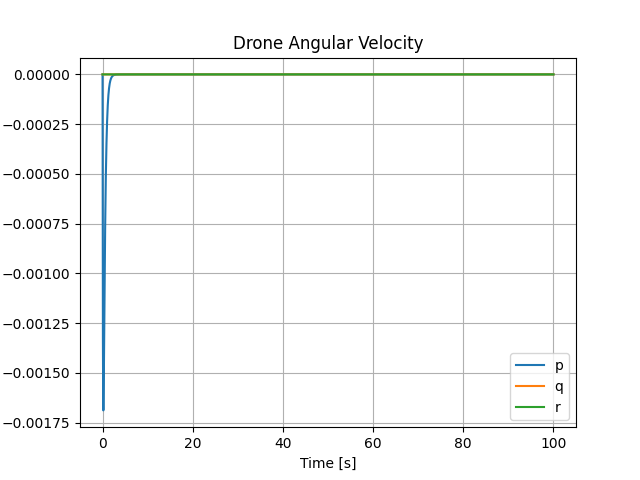
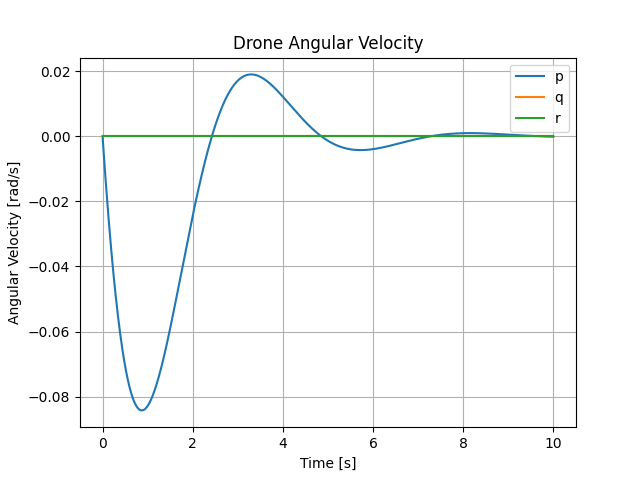
began experimentation with combination of thrust and p/r control

diff --git a/src/simple-pid.py b/src/simple-pid.py
@@ -22,29 +22,41 @@ c2m = np.array([[-r, -r, r, r], [r, -r, -r, r], [1, -1, 1, -1]])
 
 ## Simulation Parameters
 
-#s = control.TransferFunction.s
+simSpeed = 10
 
-Kp = 5 # Proportional Gain
-Ti = 100 # Integral Time Constant
-Td = 10 # Derivative Time Constant
+# Pitch/Roll PID Constants
+
+Kp_pr = 4500 # Proportional Gain
+Ki_pr = 100 # Integral Gain
+Kd_pr = 300 # Derivative Gain
 
 desired_roll = 0 # Desired Roll Angle
 desired_pitch = 0 # Desired Pitch Angle
 
-roll_pid = PID(Kp, Kp/Ti, Kp/Td, setpoint=desired_roll)
-pitch_pid = PID(Kp, Kp/Ti, Kp/Td, setpoint=desired_pitch)
+roll_pid = PID(Kp_pr, Ki_pr, Kd_pr, setpoint=desired_roll)
+pitch_pid = PID(Kp_pr, Ki_pr, Kd_pr, setpoint=desired_pitch)
 
-#G = Kp * (1 + (1/(Ti*s)) + Td*s) # PID Transfer Function
+# Thrust PID Constants
+
+Kp_t = .2 # Proportional Gain
+Ki_t = 1 # Integral Gain
+Kd_t = 0.01 # Derivative Gain
+
+desired_z_position = 0 # Desired Z Position
+
+thrust_pid = PID(Kp_t, Ki_t, Kd_t, setpoint=desired_z_position)
 
 # Generate the time vector
 
 Tdelt = 0.01 # Sampling Time
-roll_pid.sample_time = Tdelt
-pitch_pid.sample_time = Tdelt
+roll_pid.sample_time = Tdelt/simSpeed
+pitch_pid.sample_time = Tdelt/simSpeed
 Tstart = 0 # Start Time
 Tstop = 10 # End Time
 N = int((Tstop - Tstart)/Tdelt) # Number of Samples
 t = np.linspace(Tstart, Tstop, N) # Time Vector
+
+print("Simulation will take: ", N*Tdelt/simSpeed, " seconds")
 
 # Initialize vectors/matrices
 state = np.zeros([12, N+1]) # State Vector
@@ -84,108 +96,39 @@ R = 11
 
 index = 1
 for i in t:
+  # Update PID controllers
   del_phi = roll_pid(state[PHI][index-1])
   del_theta = pitch_pid(state[THETA][index-1])
+  del_thrust = thrust_pid(state[Z][index-1])
 
-  del_phi_lin = roll_pid(stateLin[PHI][index-1])
-  del_theta_lin = pitch_pid(stateLin[THETA][index-1])
-
-  #print("Roll: ", stateLin[PHI][index-1], "Pitch: ", stateLin[THETA][index-1], "del_phi: ", del_phi, "del_theta: ", del_theta)
-
+  # Calculate Control Moments
   del_Lc = Ixx * del_phi * Tdelt
   del_Mc = Iyy * del_theta * Tdelt
+  del_Nc = 0
 
-  del_Lc_lin = Ixx * del_phi_lin * Tdelt
-  del_Mc_lin = Iyy * del_theta_lin * Tdelt
+  # Calculate Control Force(s)
+
+  Zc = del_thrust * (m_drone/Tdelt)
+  m_force = Zc/4
+
+  # Find control force from PID
 
   momentsc = np.array([del_Lc, del_Mc, 0])
-  momentscLin = np.array([del_Lc_lin, del_Mc_lin, 0])
-  motorscI = np.dot(c2m.T, momentsc) # motor thrust
-  motorscILin = np.dot(c2m.T, momentscLin) # motor thrust
+  motorscI_rp = np.dot(c2m.T, momentsc) # motor thrust for roll and pitch
+
+  motorscI_t = np.array([m_force, m_force, m_force, m_force]) # motor thrust for thrust
+
+  motorscI = motorscI_rp + motorscI_t
 
   motorsc[:,index] = motorscI
-  motorscLin[:,index] = motorscILin
 
   # Update drone state
   state[:,index] = DroneState(state[:,index-1], motorscI).update(Tdelt)
-  stateLin[:,index] = DroneStateLinear(stateLin[:,index-1], motorscI).update(Tdelt)
 
   index += 1
-  time.sleep(Tdelt)
+  time.sleep(Tdelt/simSpeed)
 
-
-## Plotting
-
-# plot phi, theta, psi
-
-plt.figure()
-plt.plot(t, stateLin[PHI][:-1], label='Roll')
-plt.plot(t, stateLin[THETA][:-1], label='Pitch')
-plt.plot(t, stateLin[PSI][:-1], label='Yaw')
-plt.title('Drone Attitude -linear')
-plt.xlabel('Time [s]')
-plt.ylabel('Angle [rad]')
-plt.legend()
-plt.grid()
-plt.savefig("plots/simple-pid-attitude-linear.png")
-plt.close()
-
-# plot x,y,z
-
-plt.figure()
-plt.plot(t, stateLin[X][:-1], label='X')
-plt.plot(t, stateLin[Y][:-1], label='Y')
-plt.plot(t, stateLin[Z][:-1], label='Z')
-plt.title('Drone Position -linear')
-plt.xlabel('Time [s]')
-plt.ylabel('Position [m]')
-plt.legend()
-plt.grid()
-plt.savefig("plots/simple-pid-position-linear.png")
-plt.close()
-
-# plot u,v,w
-
-plt.figure()
-plt.plot(t, stateLin[U][:-1], label='u')
-plt.plot(t, stateLin[V][:-1], label='v')
-plt.plot(t, stateLin[W][:-1], label='w')
-plt.title('Drone Velocity -linear')
-plt.xlabel('Time [s]')
-plt.ylabel('Velocity [m/s]')
-plt.legend()
-plt.grid()
-plt.savefig("plots/simple-pid-velocity-linear.png")
-plt.close()
-
-# plot p,q,r
-
-plt.figure()
-plt.plot(t, stateLin[P][:-1], label='p')
-plt.plot(t, stateLin[Q][:-1], label='q')
-plt.plot(t, stateLin[R][:-1], label='r')
-plt.title('Drone Angular Velocity -linear')
-plt.xlabel('Time [s]')
-plt.ylabel('Angular Velocity [rad/s]')
-plt.legend()
-plt.grid()
-plt.savefig("plots/simple-pid-angular-velocity-linear.png")
-plt.close()
-
-# plot motor speeds
-
-plt.figure()
-plt.plot(t, motorscLin[0][:-1], label='Motor 1')
-plt.plot(t, motorscLin[1][:-1], label='Motor 2')
-plt.plot(t, motorscLin[2][:-1], label='Motor 3')
-plt.plot(t, motorscLin[3][:-1], label='Motor 4')
-plt.title('Motor Speeds -linear')
-plt.xlabel('Time [s]')
-plt.ylabel('Speed [rad/s]')
-plt.legend()
-plt.grid()
-plt.savefig("plots/simple-pid-motor-speeds-linear.png")
-plt.close()
+## Plots
 
 ## Nonlinear
 ##############################################33
@@ -251,9 +194,9 @@ plt.plot(t, motorsc[0][:-1], label='Motor 1')
 plt.plot(t, motorsc[1][:-1], label='Motor 2')
 plt.plot(t, motorsc[2][:-1], label='Motor 3')
 plt.plot(t, motorsc[3][:-1], label='Motor 4')
-plt.title('Motor Speeds')
+plt.title('Motor Thrust')
 plt.xlabel('Time [s]')
-plt.ylabel('Speed [rad/s]')
+plt.ylabel('Thrust [N]')
 plt.legend()
 plt.grid()
 plt.savefig("plots/simple-pid-motor-speeds.png")

diff --git a/README.md b/README.md
@@ -16,6 +16,32 @@ Multirotor drone flight controllers must be made up of (at least) three core con
 2. thrust control
 3. yaw control
 
+### Complete Control
+
+Here are the plots for the combination of the [roll/pitch control](#rollpitch-control), [thrust control](#thrust-control) and [yaw control](#yaw-control). We can see that, after some gain tuning, the drone attitude and vertical velocity settle to zero. However, the drone Y velocity does not settle to zero - it looks as if drag doesn't act on the drone, which is very confusing.
+
+<table>
+  <tr>
+    <td>
+      <img src="./plots/simple-pid-attitude.png" alt="simple-pid-attitude" width="400">
+    </td>
+    <td>
+      <img src="./plots/simple-pid-angular-velocity.png" alt="simple-pid-angular-velocity" width="400">
+    </td>
+  </tr>
+  <tr>
+    <td>
+      <img src="./plots/simple-pid-velocity.png" alt="simple-pid-velocity" width="400">
+    </td>
+    <td>
+      <img src="./plots/simple-pid-position.png" alt="simple-pid-position" width="400">
+    </td>
+  </tr>
+</table>
+
+<img src="./plots/simple-pid-motor-speeds.png" alt="simple-pid-motor-forces" width="600">
+
+
 ### Roll/Pitch Control
 
 To start, I randomly picked gains of:
